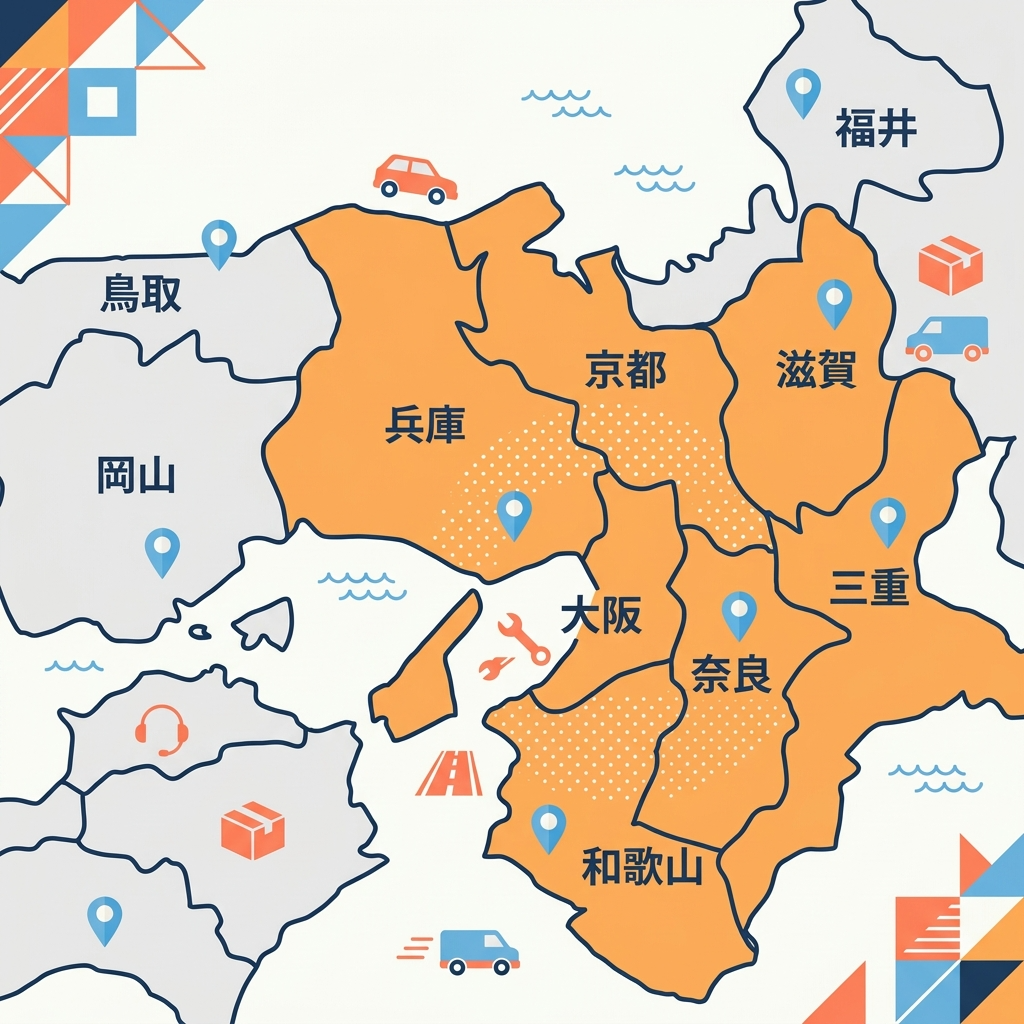
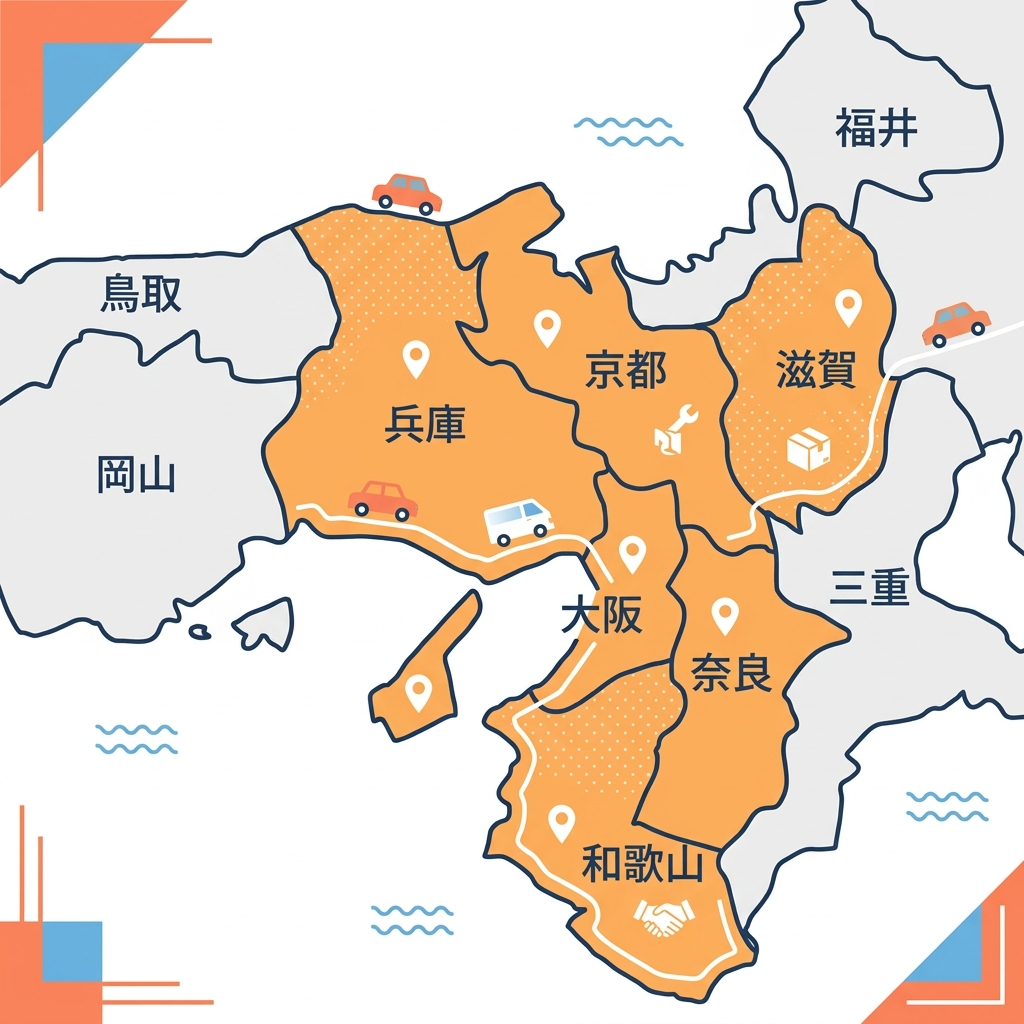
Update area text and refresh map/worker images

diff --git a/index.html b/index.html
@@ -274,7 +274,7 @@
               <img src="img/service_area_map2.png" alt="関西一円の出張無料エリアマップ" class="guide-img" loading="lazy">
             </div>
             <p class="strong-text">関西一円は出張費無料！</p>
-            <p class="area-list">対象エリア：大阪・兵庫・京都・奈良・和歌山・滋賀・三重</p>
+            <p class="area-list">対象エリア：大阪・兵庫・京都・奈良・和歌山・滋賀</p>
             <p class="area-note">※対象エリア外でも対応可能です。お気軽にご相談ください。<br>※高所や施工困難場所については別途追加料金が発生することがあります。</p>
           </div>
         </div>
